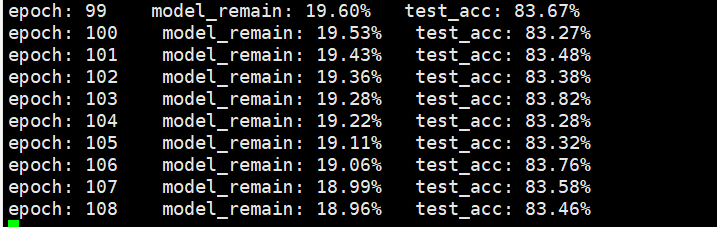
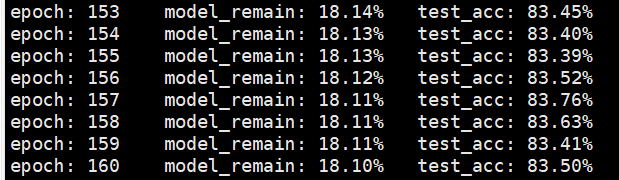
third

diff --git a/utils.py b/utils.py
@@ -219,6 +219,7 @@ class Tester:
 
         alphas = torch.tensor([1e-7, 1e-6, 1e-5, 1e-4])
         for alpha in alphas:
+            print(alpha)
             net = MaskedWideResNet(wide_f)
             trainer = torch.optim.SGD(net.parameters(), lr=lr, momentum=0.9)
             scheduler = lr_scheduler.MultiStepLR(trainer, milestones=[80, 120], gamma=0.1)
@@ -230,6 +231,8 @@ class Tester:
         plot(alphas, [torch.tensor(model_remains), torch.tensor(test_acc)], xlabel='alpha',
              ylabel=['model remain ratio', 'test_acc'], legend=['model remain ratio', 'test_acc'],
              twins=True, ylim2=[0.8, 0.95], xscale='log')
+
+        plt.save("res/diff_a.png")
 
 
 

diff --git a/main.py b/main.py
@@ -1,16 +1,15 @@
 import os
-import sys
 from utils import Tester
 
 os.environ['KMP_DUPLICATE_LIB_OK'] = 'True'
 
 if __name__ == '__main__':
-    os.environ['CUDA_VISIBLE_DEVICES'] = sys.argv[1]
     # Tester.test_lenet_300_100()
     # Tester.test_lenet_1epoch()
     # Tester.test_lenet_5()
     # Tester.test_masked_lstm(128, "res/lstm_masked-b.png")  # lstm-a
     # Tester.test_masked_lstm(256, "res/lstm_masked-b.png")  # lstm-b
-    Tester.test_masked_vgg16()
+    # Tester.test_masked_vgg16(lr=0.1)
     # Tester.test_masked_wideres(8)
+    Tester.test_diff_a(8)
     #Tester.test_model()

diff --git a/README.md b/README.md
@@ -319,9 +319,9 @@ lstm-b 结构为两个 MaskedLSTMCell，隐层大小为 256，后接一个 Maske
 
 实验设定：epoch, batch_size, lr = 160, 64, 0.1，alpha = 5e-6，优化算法为 SGD，momentum=0.9，学习率在第80、120 epoch 衰减为原来的0.1。
 
-仍在复现中，似乎出现过拟合，test_acc 保持在 10%。
+最终结果：模型剩余率为 12.60%，test_acc=87.02%。
 
-![png](./res/vgg16_res.png)
+![png](./res/vgg-16-01.png)
 
 #### WideResNet-16-8
 
@@ -340,21 +340,23 @@ WideResNet-16-8 以一个卷积层开始，中间每两个残差块组成一个 
 
 实验设定：epoch, batch_size, lr = 160, 64, 0.1，alpha = 5e-6，优化算法为 SGD，momentum=0.9，学习率在第80、120 epoch 衰减为原来的0.1。
 
-仍在复现中，似乎表现良好。
+最终结果：模型剩余率为 18.10%，test_acc=83.50%。
 
-![png](./res/wideresnet_res.png)
+![png](./res/wideresnet-16-8.png)
 
 ### 4.3 ImageNet
 
 作者给出了使用不同的方法在 ImageNet 数据集上剪枝 ResNet-50 的结果，如下图所示。
 
-![png](./imgs/imagenet.png)
+暂未复现。
 
-本部分暂未复现。
+![png](./imgs/imagenet.png)
 
 ### 4.4 不同剩余率下的剪枝表现
 
 作者认为使用中等的 alpha 值，很容易获得一个稀疏的模型，其表现与原模型相当，甚至更好。以下为作者在不同的 alpha 下使用不同网络测试的结果。
+
+暂未复现。
 
 ![png](./imgs/dif_alpha.png)
 
@@ -380,9 +382,13 @@ WideResNet-16-8 以一个卷积层开始，中间每两个残差块组成一个 
 衰减前 fc2 无法提取到足够多有用的特征，因此其中提取无效特征的参数被剪掉了，呈现出低剩余率。而衰减后，有效特征能够被前面的层很好地提取，这使得在前面
 训练中不重要的 fc2 变得重要起来。
 
-暂未复现。
-
 支持这一假设的两个事实：在 epoch 80，test_acc 从 85% 迅速跃升至 92%；前面的卷积层的剩余率几乎不变化，即它们的参数是必需的，以提取重要特征。
+
+感觉与作者的图有很大不同。
+
+![png](./res/vgg-16-01.png)
+
+![png](./res/vgg-16-001.png)
 
 ![png](./imgs/5_2.png)
 
